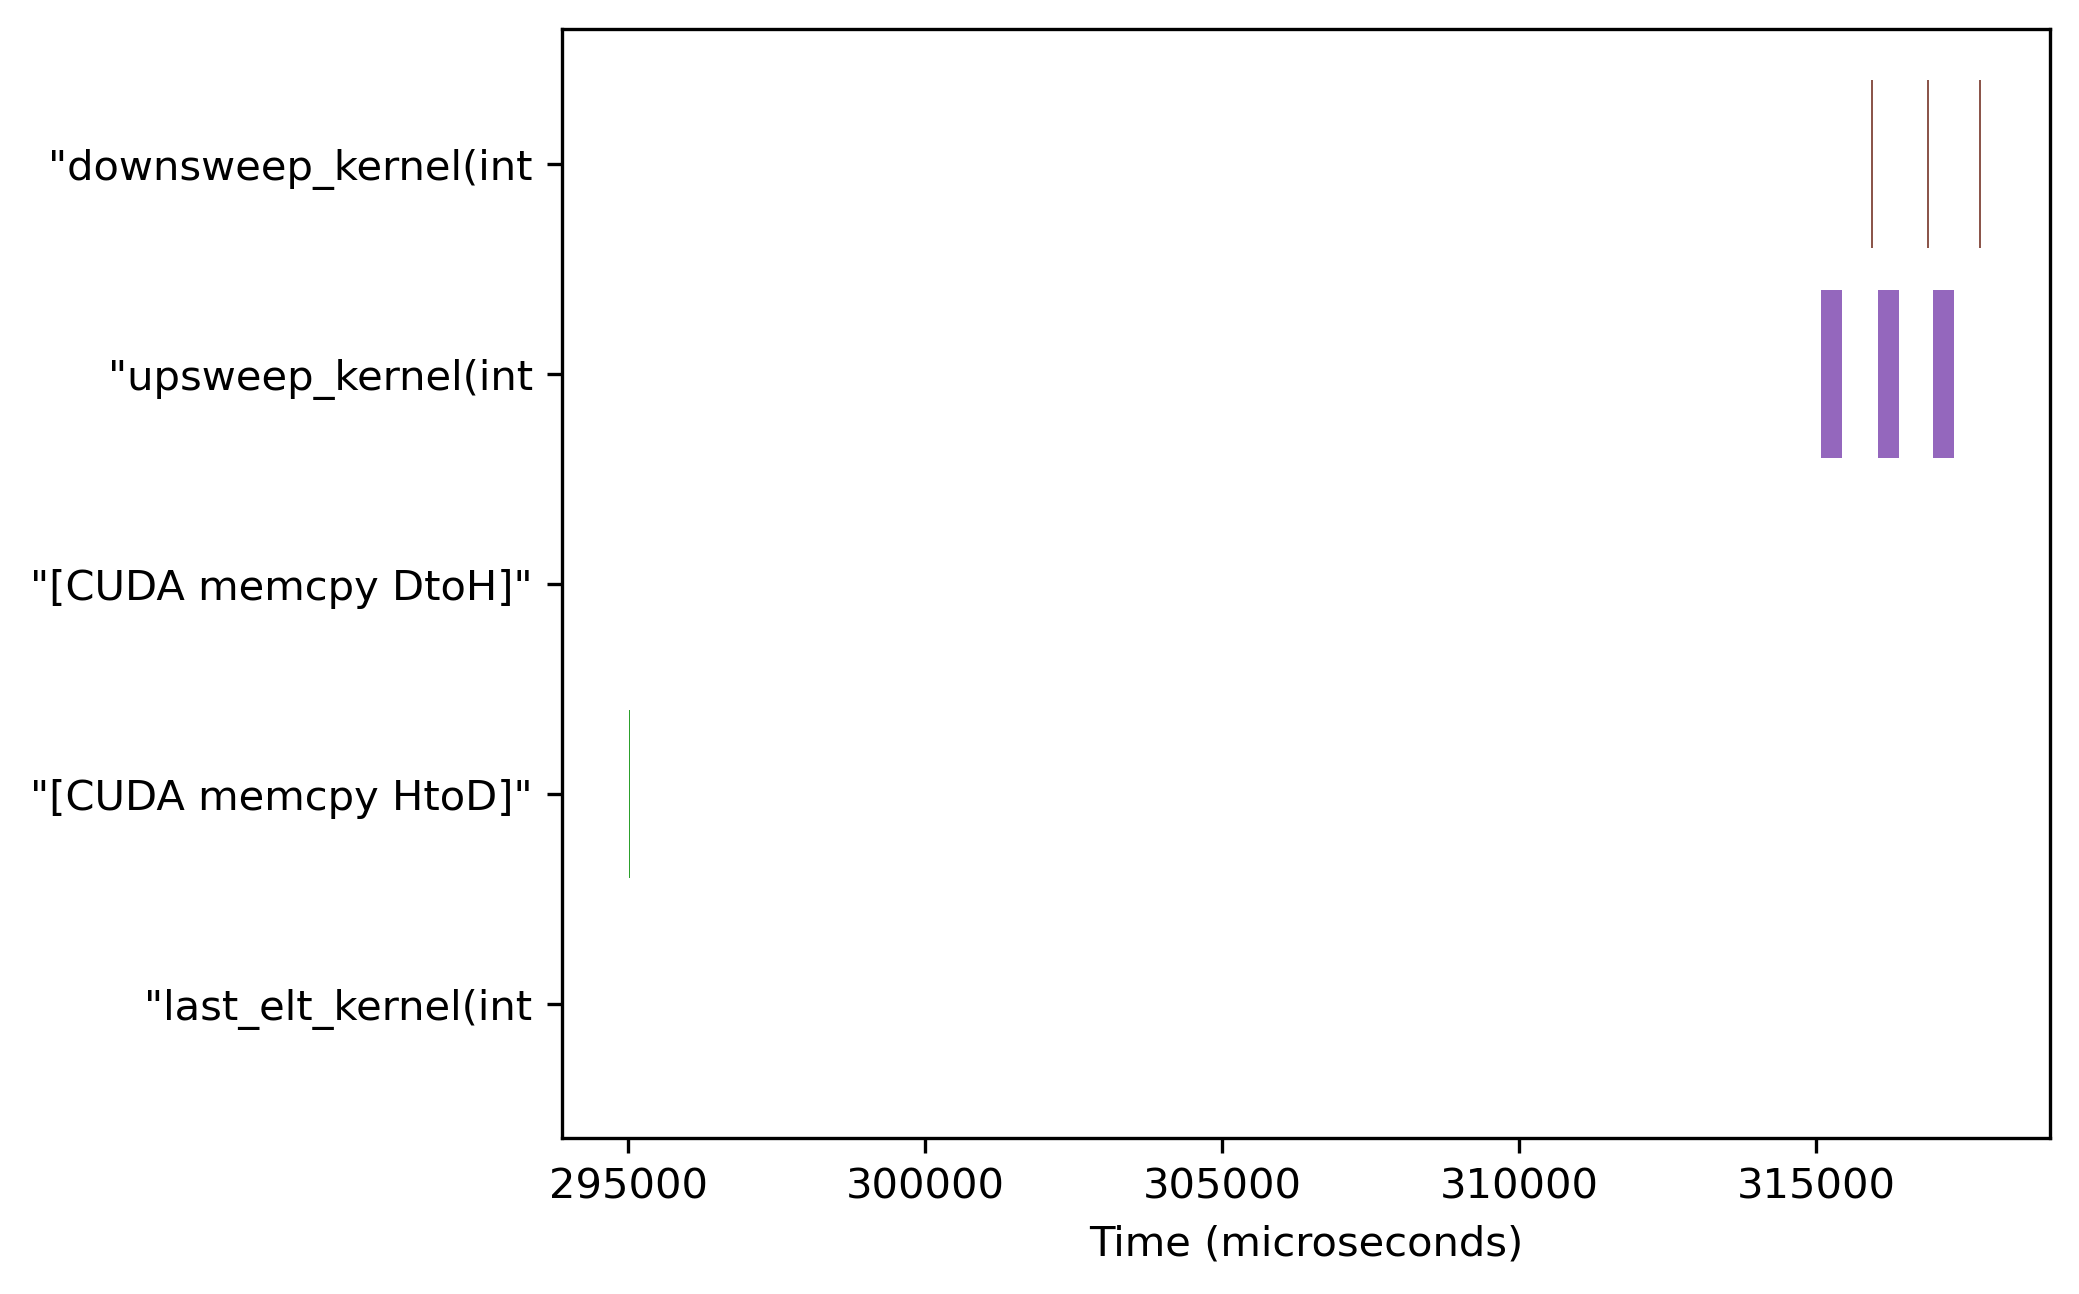
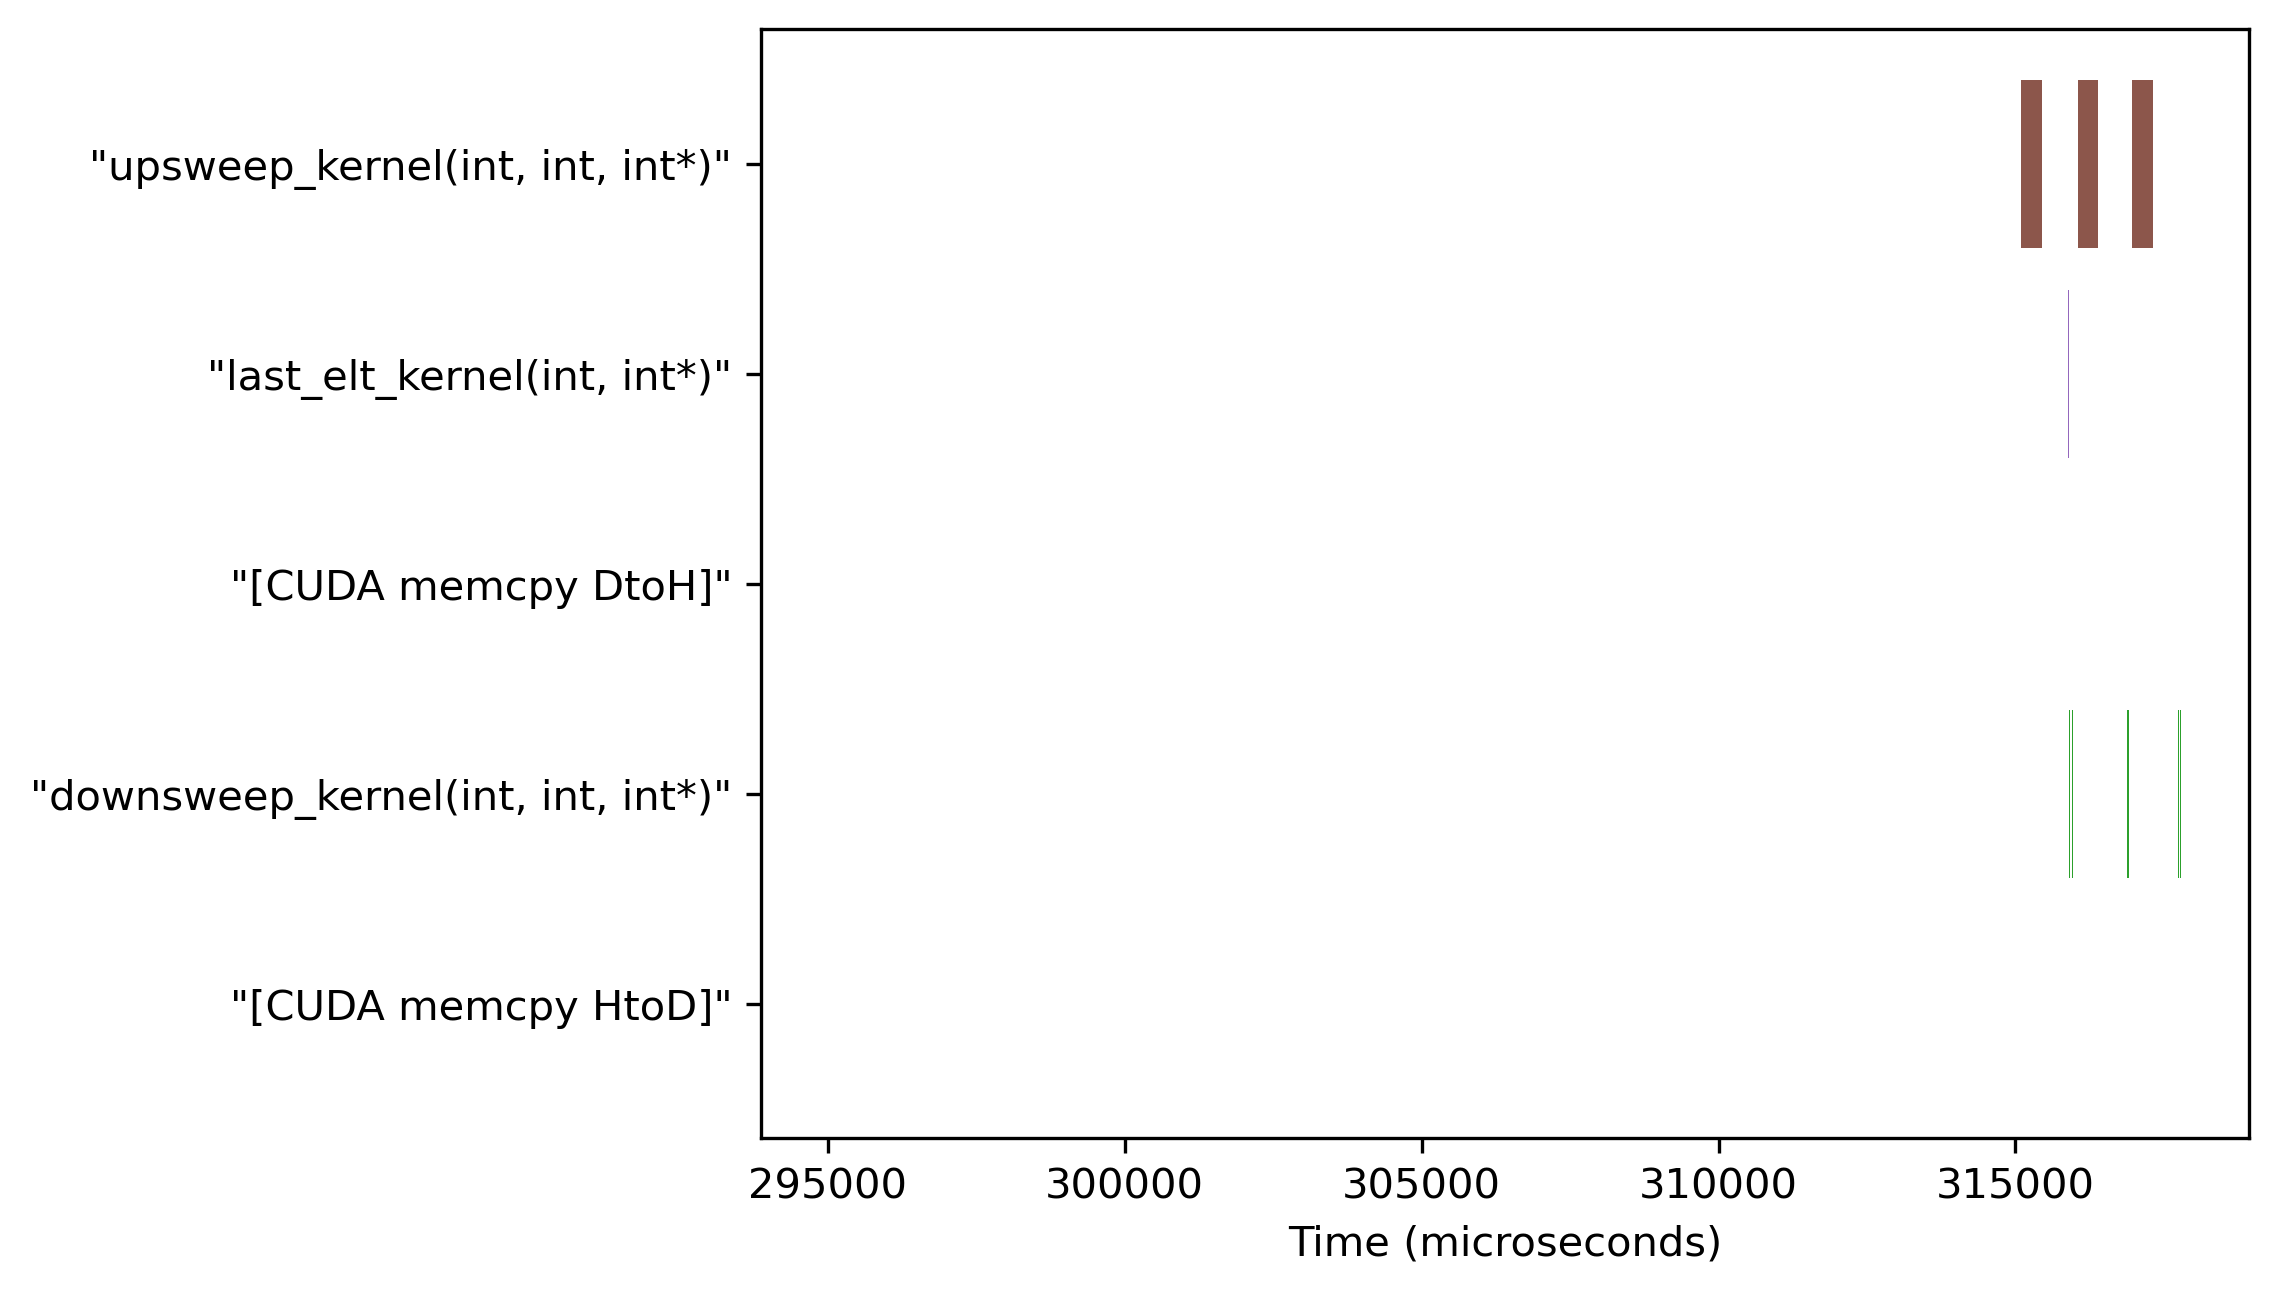
Fix truncated names in memory bottleneck graph

diff --git a/memoryBottleneck.py b/memoryBottleneck.py
@@ -14,7 +14,8 @@ for line in lines:
         lineArr = line.split(',')
         start = float(lineArr[0]) * 1000 # convert milli to microseconds
         duration = float(lineArr[1])
-        name = lineArr[18]
+        nameArr = lineArr[18:-1]
+        name = ','.join(nameArr)
         data.append((start, duration, name))
         catSet.add(name)
     num += 1
@@ -34,7 +35,7 @@ for cat in catSet:
 verts = []
 colors = []
 for d in data:
-    print((d[0], d[1], d[2]))
+    # print((d[0], d[1], d[2]))
     v =  [(d[0], cats[d[2]]-.4),
           (d[0], cats[d[2]]+.4),
           (d[0] + d[1], cats[d[2]]+.4),
